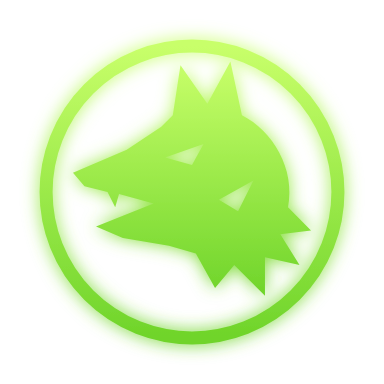
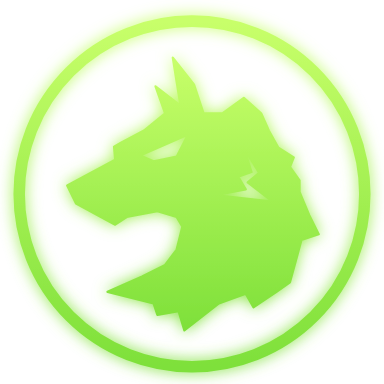
Заря's wolf traced from the patch; the style in the notification and tile
The Заря icon is now the faction patch's wolf, traced by hand from
Николай's photo. The VPN notification and the quick settings tile take
the style's status bar icon, its launcher icon as the large icon and its
colour, and a running VPN restyles its notification at once.

Claude-Session: https://claude.ai/code/session_01Jo4xQ8aVn11g1cVyHHVj7c

diff --git a/app/android/app/src/main/kotlin/app/tigersb/TigerVpnService.kt b/app/android/app/src/main/kotlin/app/tigersb/TigerVpnService.kt
@@ -8,6 +8,7 @@ import android.content.Context
 import android.content.Intent
 import android.content.pm.PackageManager
 import android.content.pm.ServiceInfo
+import android.graphics.drawable.Icon
 import android.net.ConnectivityManager
 import android.net.LinkProperties
 import android.net.Network
@@ -40,9 +41,12 @@ class TigerVpnService : VpnService() {
         private const val TAG = "TigerSB"
         const val ACTION_START = "app.tigersb.START"
         const val ACTION_STOP = "app.tigersb.STOP"
+
+        // Shows the notification again in the style the user just chose.
+        const val ACTION_RESTYLE = "app.tigersb.RESTYLE"
+
         private const val CHANNEL = "vpn"
         private const val NOTIFICATION_ID = 1
-        private const val ORANGE = 0xFFFF7A1A.toInt()
 
         // How often the notification checks which protocol carries traffic.
         private const val PROTOCOL_EVERY_MS = 30_000L
@@ -78,6 +82,12 @@ class TigerVpnService : VpnService() {
 
         fun stop(context: Context) {
             context.startService(Intent(context, TigerVpnService::class.java).setAction(ACTION_STOP))
+        }
+
+        /** Restyles the notification of a running VPN; does nothing when it is off. */
+        fun restyle(context: Context) {
+            if (VpnState.phase == VpnState.Phase.DISCONNECTED || VpnState.phase == VpnState.Phase.ERROR) return
+            context.startService(Intent(context, TigerVpnService::class.java).setAction(ACTION_RESTYLE))
         }
     }
 
@@ -131,6 +141,15 @@ class TigerVpnService : VpnService() {
                 shutdown()
             }
             return START_NOT_STICKY
+        }
+        if (intent?.action == ACTION_RESTYLE) {
+            // Started only for this: there is no VPN to restyle.
+            val (title, detail) = shown ?: run {
+                stopSelf(startId)
+                return START_NOT_STICKY
+            }
+            startForegroundCompat(title, detail)
+            return START_STICKY
         }
         if (intent == null) worker.execute { note("Android перезапустил службу VPN") }
         // ACTION_START from the app or the tile, or the system starting an
@@ -545,8 +564,17 @@ class TigerVpnService : VpnService() {
         this, 0, Intent(this, MainActivity::class.java), PendingIntent.FLAG_IMMUTABLE,
     )
 
-    /** title on top; detail, such as the protocol, below it when set. */
+    // The notification's title and detail, to show them again in a new style.
+    @Volatile
+    private var shown: Pair<String, String>? = null
+
+    /**
+     * title on top; detail, such as the protocol, below it when set. The icons
+     * and the colour are the style's.
+     */
     private fun startForegroundCompat(title: String, detail: String = "") {
+        shown = title to detail
+        val look = Core.look(this)
         val nm = getSystemService(NotificationManager::class.java)
         val builder = if (Build.VERSION.SDK_INT >= 26) {
             nm.createNotificationChannel(
@@ -561,8 +589,9 @@ class TigerVpnService : VpnService() {
             this, 1, Intent(this, TigerVpnService::class.java).setAction(ACTION_STOP), PendingIntent.FLAG_IMMUTABLE,
         )
         val n = builder
-            .setSmallIcon(R.drawable.ic_stat_vpn)
-            .setColor(ORANGE)
+            .setSmallIcon(look.statusIcon)
+            .setLargeIcon(Icon.createWithResource(this, look.launcherIcon))
+            .setColor(look.color)
             .setSubText("TigerSB")
             .setContentTitle(title)
             .setContentText(detail.ifEmpty { null })

diff --git a/scripts/style-icons.js b/scripts/style-icons.js
@@ -1,13 +1,17 @@
-// Renders the styles' icons from app/assets/styles/*.svg: the in-app logo and
-// the Android launcher icons (adaptive foreground and monochrome, and the
-// legacy square). Run from the repository root with Playwright installed:
-//   node scripts/style-icons.js
+// Renders the styles' icons from app/assets/styles/*.svg: the in-app logo, the
+// Android launcher icons (adaptive foreground and monochrome, and the legacy
+// square) and, for every style with the standard one, the white status bar
+// icon of the notification and the tile. Run from the repository root with Playwright installed:
+//   node scripts/style-icons.js [style...]
+// Names of styles render only those, so the others' files stay as they are.
 const { chromium } = require('playwright');
 const { execFileSync } = require('child_process');
 const fs = require('fs');
 const path = require('path');
 
-const styles = ['zarya', 'curse', 'miku'];
+const only = process.argv.slice(2);
+const pick = (name) => only.length === 0 || only.includes(name);
+const styles = ['zarya', 'curse', 'miku'].filter(pick);
 const res = 'app/android/app/src/main/res';
 const densities = { mdpi: 1, hdpi: 1.5, xhdpi: 2, xxhdpi: 3, xxxhdpi: 4 };
 
@@ -46,6 +50,21 @@ const densities = { mdpi: 1, hdpi: 1.5, xhdpi: 2, xxhdpi: 3, xxxhdpi: 4 };
 </adaptive-icon>
 `,
     );
+  }
+  // Status bar icons: the shape alone, without the glow, lines a bit bolder.
+  const all = { tiger: 'app/assets/tiger.svg', ...Object.fromEntries(styles.map((n) => [n, `app/assets/styles/${n}.svg`])) };
+  for (const [name, file] of Object.entries(all).filter(([name]) => pick(name))) {
+    const svg = fs
+      .readFileSync(file, 'utf8')
+      .replace(/ filter="url\(#glow\)"/g, '')
+      .replace(/stroke-width="([\d.]+)"/g, (_, w) => `stroke-width="${Math.max(w * 1.6, 1)}"`);
+    for (const [d, k] of Object.entries(densities)) {
+      const dir = path.join(res, `drawable-${d}`);
+      fs.mkdirSync(dir, { recursive: true });
+      const out = path.join(dir, `ic_stat_${name}.png`);
+      await render(svg, out, 24 * k, Math.round(24 * k * 1.04));
+      execFileSync('convert', [out, '-fill', 'white', '-colorize', '100', out]);
+    }
   }
   await browser.close();
 })();

diff --git a/app/android/app/src/main/kotlin/app/tigersb/Core.kt b/app/android/app/src/main/kotlin/app/tigersb/Core.kt
@@ -69,6 +69,16 @@ object Core {
 
     fun style(context: Context): String = prefs(context).getString("style", "tiger") ?: "tiger"
 
+    /** How the style looks outside the app: in the status bar, the notification and the tile. */
+    class Look(val statusIcon: Int, val launcherIcon: Int, val color: Int)
+
+    fun look(context: Context): Look = when (style(context)) {
+        "zarya" -> Look(R.drawable.ic_stat_zarya, R.mipmap.ic_launcher_zarya, 0xFF8BE33A.toInt())
+        "curse" -> Look(R.drawable.ic_stat_curse, R.mipmap.ic_launcher_curse, 0xFFEE1C2E.toInt())
+        "miku" -> Look(R.drawable.ic_stat_miku, R.mipmap.ic_launcher_miku, 0xFF39C5BB.toInt())
+        else -> Look(R.drawable.ic_stat_tiger, R.mipmap.ic_launcher, 0xFFFF7A1A.toInt())
+    }
+
     /**
      * Saves the style and shows its icon on the home screen: its launcher
      * alias is turned on before the others are turned off, so the app always

diff --git a/app/android/app/src/main/kotlin/app/tigersb/TileService.kt b/app/android/app/src/main/kotlin/app/tigersb/TileService.kt
@@ -2,6 +2,7 @@ package app.tigersb
 
 import android.app.PendingIntent
 import android.content.Intent
+import android.graphics.drawable.Icon
 import android.net.VpnService
 import android.os.Build
 import android.service.quicksettings.Tile
@@ -48,6 +49,7 @@ class TileService : android.service.quicksettings.TileService() {
             VpnState.Phase.CONNECTED, VpnState.Phase.CONNECTING -> Tile.STATE_ACTIVE
             else -> Tile.STATE_INACTIVE
         }
+        tile.icon = Icon.createWithResource(this, Core.look(this).statusIcon)
         tile.updateTile()
     }
 }

diff --git a/app/android/app/src/main/kotlin/app/tigersb/MainActivity.kt b/app/android/app/src/main/kotlin/app/tigersb/MainActivity.kt
@@ -143,6 +143,7 @@ class MainActivity : FlutterActivity() {
                     "style" -> result.success(Core.style(this@MainActivity))
                     "setStyle" -> {
                         Core.setStyle(this@MainActivity, call.argument<String>("style") ?: "tiger")
+                        TigerVpnService.restyle(this@MainActivity)
                         result.success(null)
                     }
                     "connect" -> connect(result)
